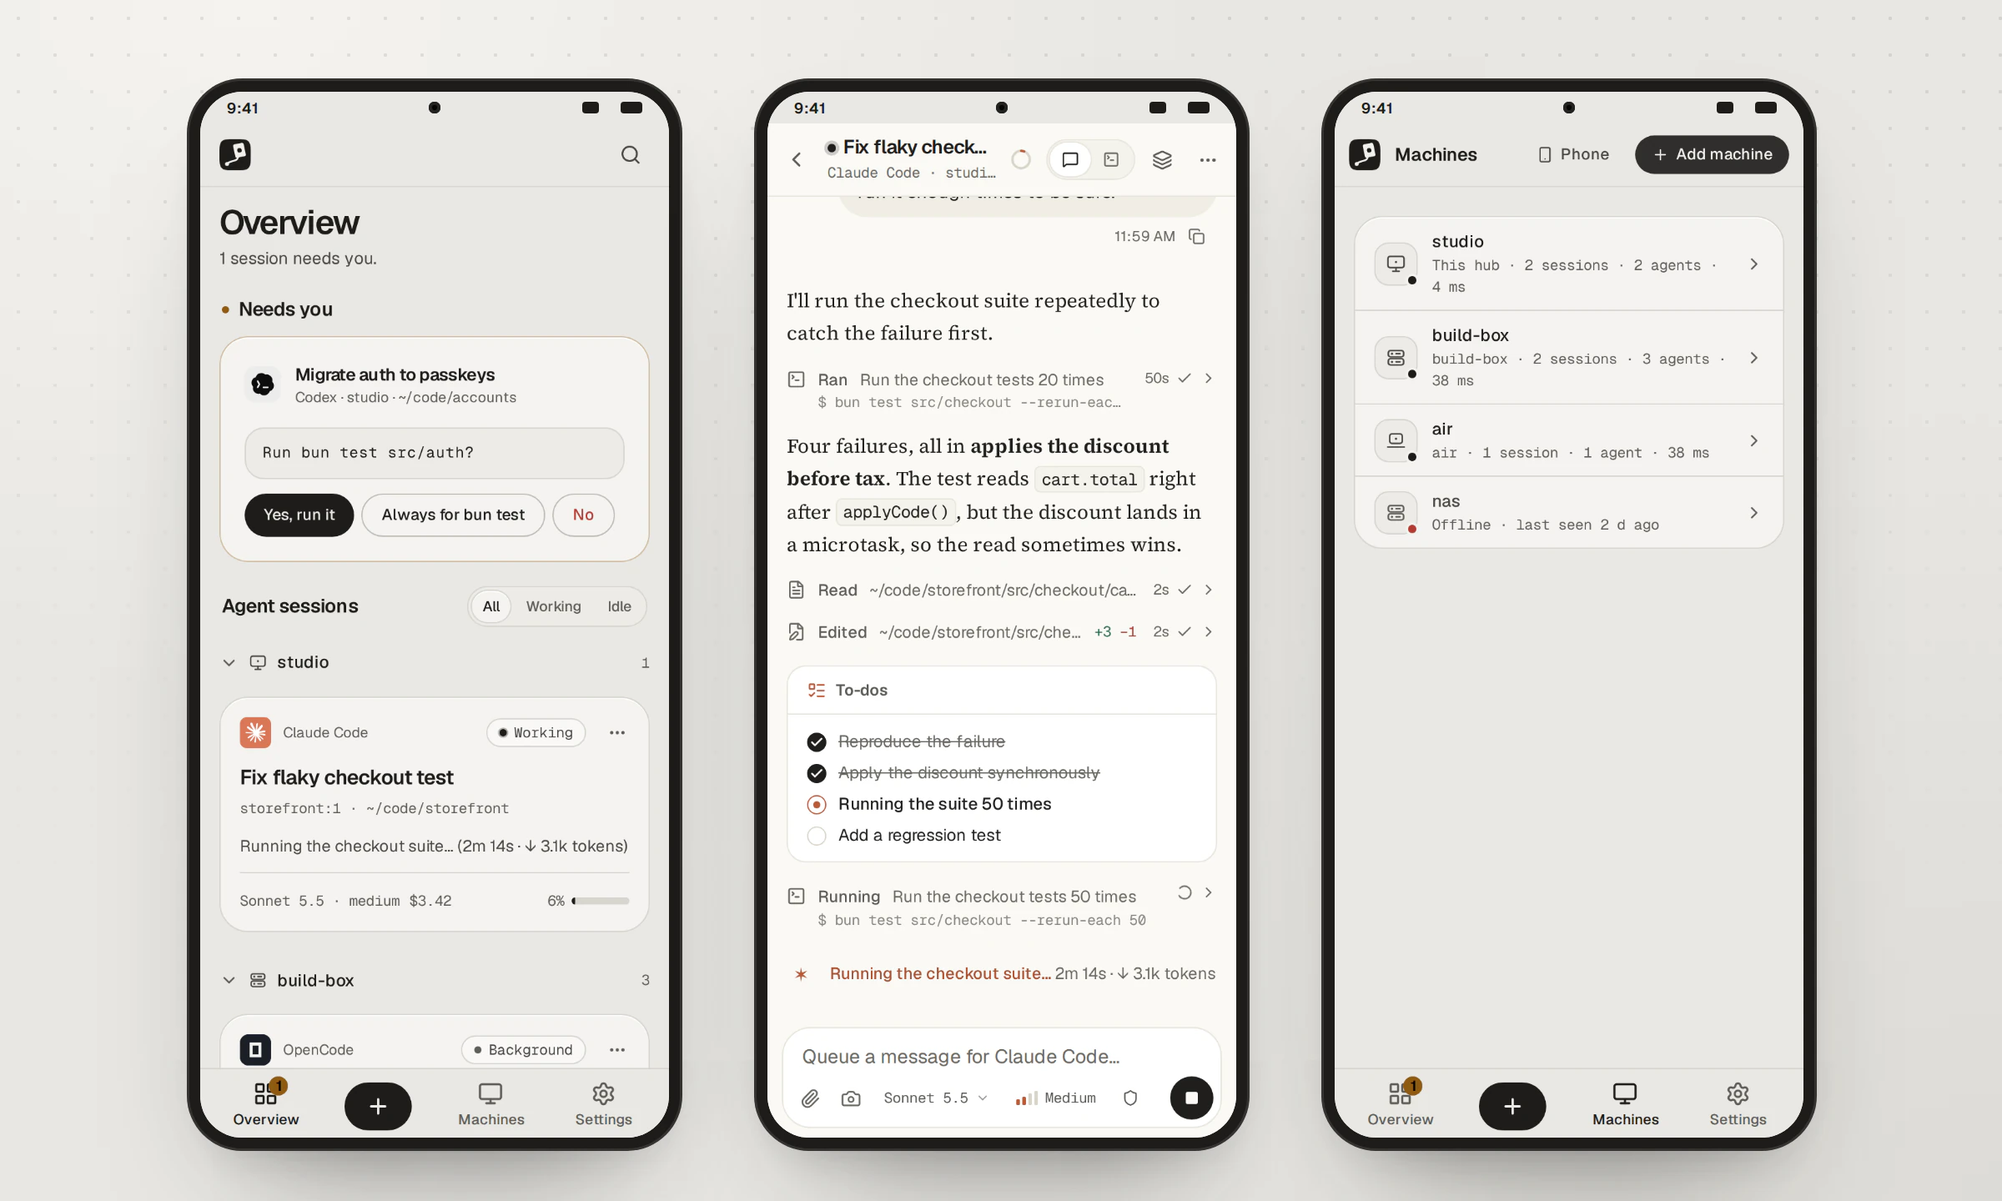
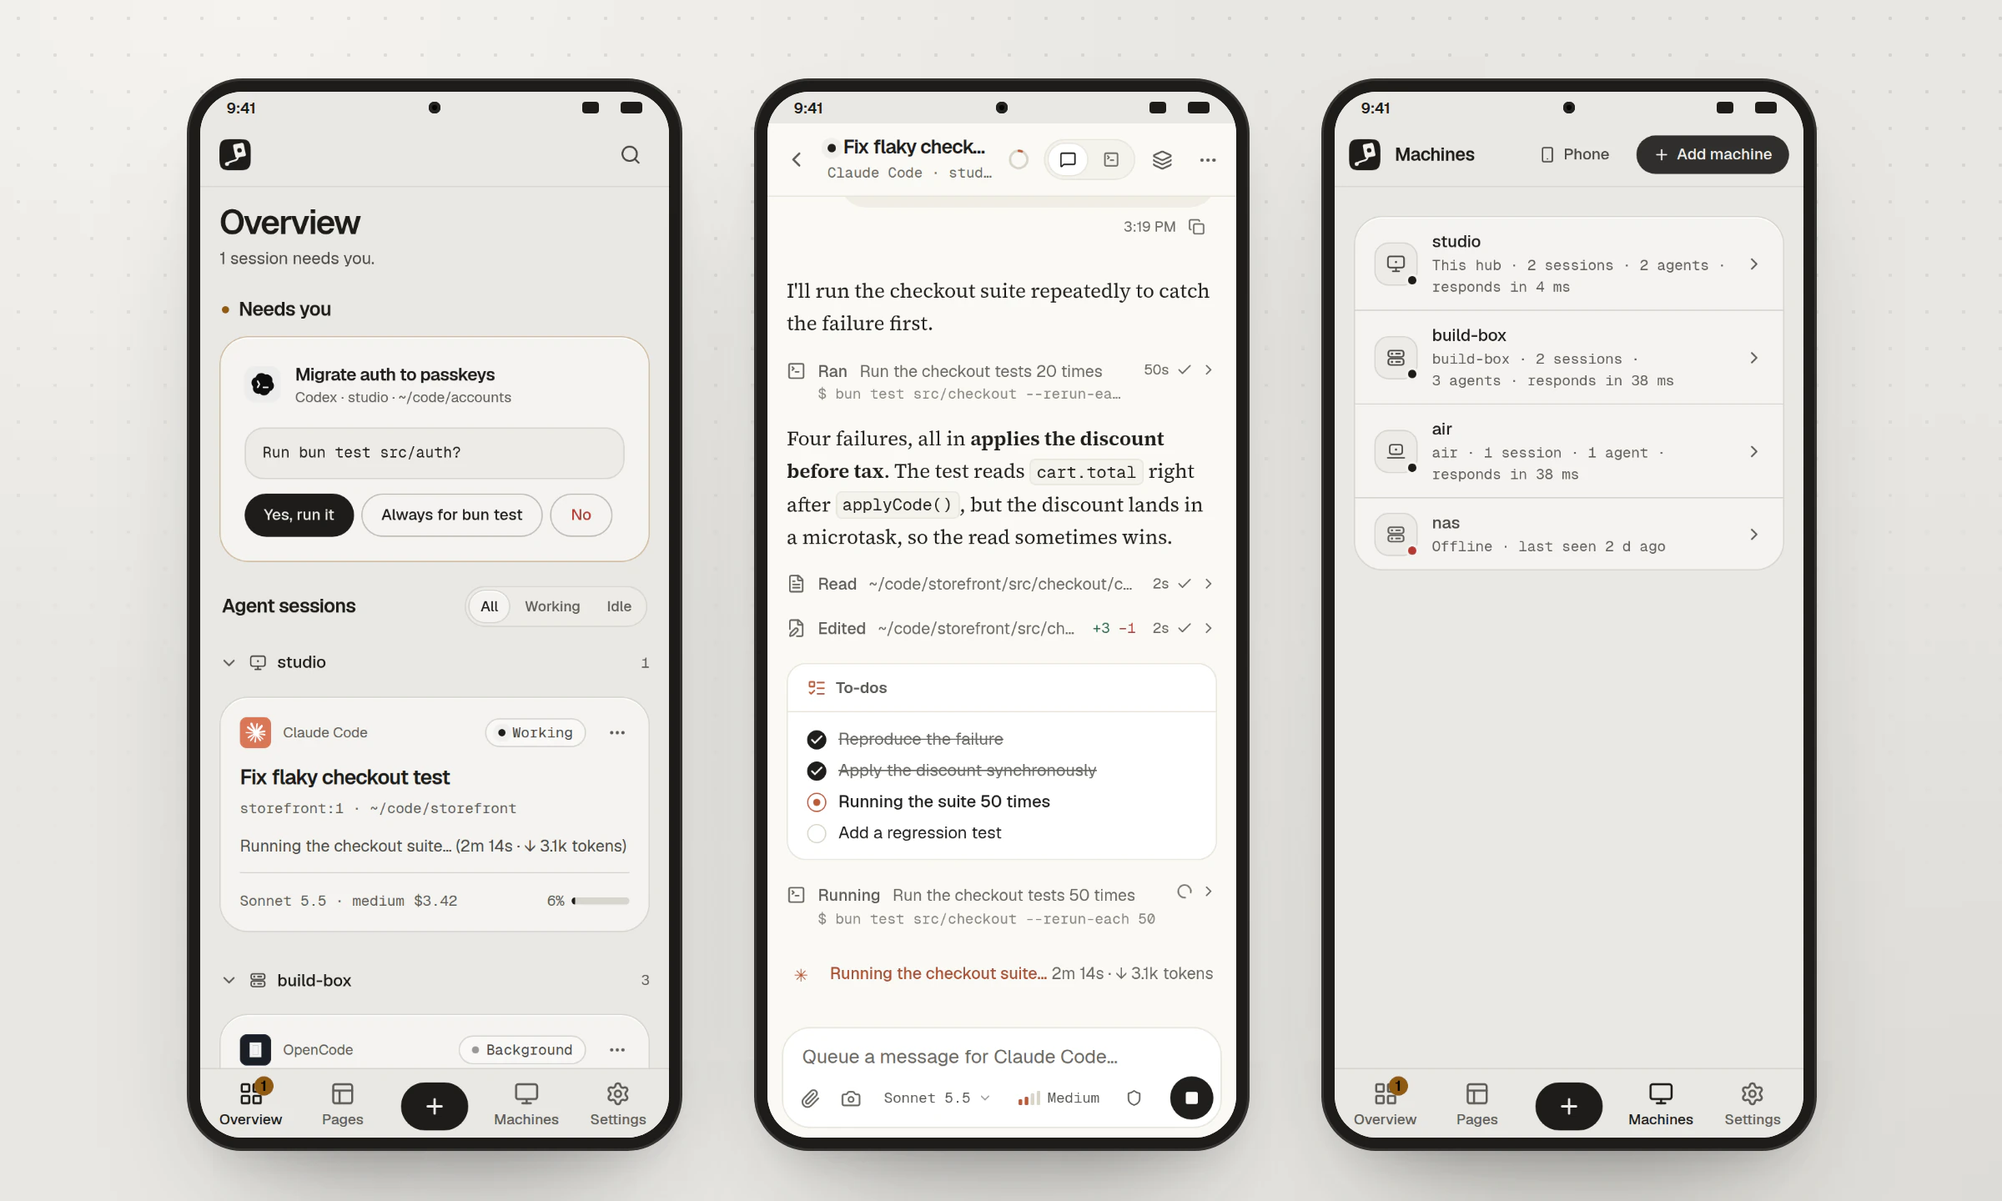
Bring the docs, README and site in line with what 0.20 does
A pass over every place that describes Inyon, checked against the code:

- Download sizes: about 4 MB on Windows, 10 to 13 MB elsewhere now that
  the Rust hub ships inside the binary.
- SECURITY.md covers signed downloads, the 0.20 plain-http rule and cert
  pin, companions, Pages and how to revoke a phone.
- CONTRIBUTING lists the Rust tests, conformance and the site build, and
  where the crates live.
- Docs pages: retry timings, the pkarr backoff, .internal names, typing
  through the paste buffer, INYON_DEBUG, the Android version.
- Old release notes rendered on the site rewrite the old domain to
  inyon.tech.
- The uploads Clean button uses the hub's own retention days instead of
  a fixed 7, and both hubs report it.
- Screenshots redrawn (the phones picture shows the Pages tab), link
  previews regenerated.

diff --git a/site/build.test.ts b/site/build.test.ts
@@ -3,7 +3,7 @@ import { createHash } from "node:crypto";
 import { readFileSync } from "node:fs";
 import { join } from "node:path";
 import { stampInstaller } from "../apps/node/installers.ts";
-import { checkReleaseFile, mb, parseSums } from "./build.ts";
+import { checkReleaseFile, mb, oldSiteLinks, parseSums } from "./build.ts";
 
 // /download said the APK was 2.7 MB while Chrome said 2.88 MB: sizes are decimal, as browsers count
 test("sizes read as a browser shows them", () => {
@@ -57,4 +57,14 @@ test("the installers served at the root carry the sha256 of the list the site ch
   expect(() => stampInstaller("get.sh", sh, list)).toThrow("expected one empty LIST_SHA256 line, found 0");
   expect(() => stampInstaller("get.sh", "LIST_SHA256=\nLIST_SHA256=\n", list)).toThrow("found 2");
   expect(() => stampInstaller("get.ps1", node("get.ps1"), "not a sha")).toThrow("isn't a sha256");
+});
+
+// release notes from before 23 Oct 2026 link to inyon.abhashchakraborty.tech; the changelog shows inyon.tech
+test("old release notes link to the site's new address", () => {
+  expect(oldSiteLinks("see [Install](https://inyon.abhashchakraborty.tech/docs/install/#x) or https://inyon.abhashchakraborty.tech")).toBe(
+    "see [Install](https://inyon.tech/docs/install/#x) or https://inyon.tech",
+  );
+  expect(oldSiteLinks("`curl -fsSL https://inyon.abhashchakraborty.tech/get.sh | sh`")).toBe("`curl -fsSL https://inyon.tech/get.sh | sh`");
+  // a host that only starts the same stays as it is
+  expect(oldSiteLinks("https://inyon.abhashchakraborty.tech.example.com/")).toBe("https://inyon.abhashchakraborty.tech.example.com/");
 });

diff --git a/site/build.ts b/site/build.ts
@@ -65,7 +65,7 @@ interface Release {
 const HOME = {
   title: "Inyon: your coding agents, from your phone",
   description:
-    "Watch, answer and steer Claude Code, Codex, Gemini CLI, OpenCode and GitHub Copilot running in tmux on your own computers, from your phone or any browser.",
+    "Watch, answer and steer Claude Code, Codex, Gemini CLI, OpenCode, GitHub Copilot and Antigravity CLI running in tmux on your own computers, from your phone or any browser.",
 };
 const DOWNLOAD_DESCRIPTION =
   "Download Inyon for Android, Linux, macOS and Windows. Every file is checked against the release's SHA256SUMS.";
@@ -460,9 +460,12 @@ async function releases(): Promise<GhRelease[]> {
 }
 
 /** A release's notes as HTML, headings demoted to sit under its version. */
+/** Links in notes written before the move to inyon.tech point here directly instead of through the old address's redirect. */
+export const oldSiteLinks = (md: string) => md.replace(/https?:\/\/inyon\.abhashchakraborty\.tech(?=[/)\s"'>]|$)/g, ORIGIN);
+
 function notes(r: GhRelease): string {
   // GitHub's "Full Changelog" line is a bare URL; each release links to its page instead
-  const md = (r.body || "").replace(/^#+\s.*\n/, "").replace(/^\*\*Full Changelog\*\*:.*$/m, "");
+  const md = oldSiteLinks(r.body || "").replace(/^#+\s.*\n/, "").replace(/^\*\*Full Changelog\*\*:.*$/m, "");
   // without their ids the headings' # links would point nowhere, so they go too
   return render(md)
     .html.replace(/<h[23] id="[^"]*"><a class="anchor"[^>]*>#<\/a>/g, "<h4>")

diff --git a/apps/web/src/pages/Machines.tsx b/apps/web/src/pages/Machines.tsx
@@ -436,6 +436,9 @@ function ConfigTab({ host }: { host: HostState }) {
   )
 }
 
+/** The age the clean button cleans: the hub's retention setting, which its count of expired files uses; 7 days when the hub doesn't say or keeps uploads forever. */
+export const cleanDays = (u: UploadUsage) => (u.days && u.days > 0 ? u.days : 7)
+
 export function UploadsCard({ host, compact }: { host: HostState; compact?: boolean }) {
   const [usage, setUsage] = useState<UploadUsage | null>(null)
   const [busy, setBusy] = useState<string | null>(null)
@@ -465,7 +468,7 @@ export function UploadsCard({ host, compact }: { host: HostState; compact?: bool
         <>
           <div className="mt-1 truncate font-mono text-[12px] text-fg-3">{usage.dir.replace(/^\/home\/[^/]+/, '~')}</div>
           <div className="mt-3 flex flex-wrap gap-2">
-            <Button size="sm" onClick={() => clean(7)} loading={busy === '7'} disabled={!usage.files}>Clean older than 7 days{usage.expired ? ` (${usage.expired})` : ''}</Button>
+            <Button size="sm" onClick={() => clean(cleanDays(usage))} loading={busy === String(cleanDays(usage))} disabled={!usage.files}>Clean older than {cleanDays(usage)} day{cleanDays(usage) === 1 ? '' : 's'}{usage.expired && usage.days ? ` (${usage.expired})` : ''}</Button>
             <Button size="sm" variant="danger" onClick={() => clean(0)} loading={busy === '0'} disabled={!usage.files}>Delete all</Button>
           </div>
         </>

diff --git a/site/pages/home.html b/site/pages/home.html
@@ -120,6 +120,7 @@
       <li><b>Follow background work</b><span>Queued messages, subagents and background shells with live output and a real Stop.</span></li>
       <li><b>Get notified</b><span>When an agent needs you or finishes, and when a machine drops off or comes back.</span></li>
       <li><b>Open what agents build</b><span>Plans, mockups and progress boards your agents make show up under Pages, sandboxed, on your phone and desktop.</span></li>
+      <li><b>Pair a companion app</b><span>Apps like Legato see your sessions, answer a question and send an instruction, with four permissions and nothing more.</span></li>
       <li><b>Set up machines from the app</b><span>It checks for tmux and each agent, installs what's missing and opens sign-in.</span></li>
     </ul>
     <div class="agents" aria-label="Supported agents">

diff --git a/apps/hub/src/features/features.ts b/apps/hub/src/features/features.ts
@@ -114,7 +114,8 @@ export async function uploadUsage(hostId: string) {
   const old = days > 0 ? `$(find ${shq(dir)} -type f -mtime +${days} | wc -l)` : '0'
   const r = await host.exec(`[ -d ${shq(dir)} ] || { echo "0 0 0"; exit 0; }; echo "$(du -sk ${shq(dir)} | cut -f1) $(find ${shq(dir)} -type f | wc -l) ${old}"`)
   const [kb, files, expired] = r.stdout.trim().split(/\s+/).map(Number)
-  return { bytes: (kb || 0) * 1024, files: files || 0, expired: expired || 0, dir }
+  // days: the retention setting `expired` counts with, so the app's clean button cleans the same files
+  return { bytes: (kb || 0) * 1024, files: files || 0, expired: expired || 0, dir, days }
 }
 
 /**

diff --git a/apps/web/src/pages/UploadsClean.test.ts b/apps/web/src/pages/UploadsClean.test.ts
@@ -1,0 +1,14 @@
+import { expect, test } from 'bun:test'
+import { cleanDays } from './Machines.tsx'
+
+const usage = { bytes: 0, files: 4, expired: 2, dir: '/home/me/.inyon/uploads' }
+
+test('the clean button cleans the age the hub counted expired files with', () => {
+  expect(cleanDays({ ...usage, days: 1 })).toBe(1)
+  expect(cleanDays({ ...usage, days: 30 })).toBe(30)
+})
+
+test('a hub that keeps uploads forever, or predates the field, gets the old 7 days', () => {
+  expect(cleanDays({ ...usage, days: 0 })).toBe(7)
+  expect(cleanDays(usage)).toBe(7)
+})

diff --git a/apps/web/src/lib/api.ts b/apps/web/src/lib/api.ts
@@ -96,6 +96,8 @@ export interface UploadUsage {
   files: number
   expired: number
   dir: string
+  /** the retention setting `expired` counts with (from 0.20.2; older hubs leave it out) */
+  days?: number
 }
 
 export interface ConfigFile {

diff --git a/crates/inyon-core/src/features/features.rs b/crates/inyon-core/src/features/features.rs
@@ -204,6 +204,8 @@ pub struct UploadUsage {
     pub files: Num,
     pub expired: Num,
     pub dir: String,
+    /// The retention setting `expired` counts with, so the app's clean button cleans the same files
+    pub days: Num,
 }
 
 /// `Number(x) || 0`
@@ -224,7 +226,7 @@ pub async fn upload_usage(host_id: &str) -> HubResult<UploadUsage> {
     let r = host.run(&format!("[ -d {d} ] || {{ echo \"0 0 0\"; exit 0; }}; echo \"$(du -sk {d} | cut -f1) $(find {d} -type f | wc -l) {old}\"")).await?;
     let nums: Vec<f64> = re!(r"\s+").split(r.stdout.jtrim()).map(to_number).collect();
     let at = |i: usize| or_zero(nums.get(i).copied().unwrap_or(f64::NAN));
-    Ok(UploadUsage { bytes: Num(at(0) * 1024.0), files: Num(at(1)), expired: Num(at(2)), dir })
+    Ok(UploadUsage { bytes: Num(at(0) * 1024.0), files: Num(at(1)), expired: Num(at(2)), dir, days: Num(days) })
 }
 
 /// The shell that tidies a machine's uploads: files older than `days` (none when 0, all when -1),

diff --git a/crates/inyon-core/src/features/features_tests.rs b/crates/inyon-core/src/features/features_tests.rs
@@ -470,7 +470,7 @@ fn upload_usage_reads_sizes_counts_and_expired_files() {
         connected("u", "/home/me", json!([]));
         let f = crate::test_support::fake::Fake::install(|_, _, _| crate::test_support::fake::ok("12 3 1\n"));
         let u = upload_usage("u").await.unwrap();
-        assert_eq!(serde_json::to_value(&u).unwrap(), json!({ "bytes": 12288, "files": 3, "expired": 1, "dir": "/home/me/.inyon/uploads" }));
+        assert_eq!(serde_json::to_value(&u).unwrap(), json!({ "bytes": 12288, "files": 3, "expired": 1, "dir": "/home/me/.inyon/uploads", "days": 7 }));
         assert_eq!(
             f.cmds(),
             ["[ -d '/home/me/.inyon/uploads' ] || { echo \"0 0 0\"; exit 0; }; echo \"$(du -sk '/home/me/.inyon/uploads' | cut -f1) $(find '/home/me/.inyon/uploads' -type f | wc -l) $(find '/home/me/.inyon/uploads' -type f -mtime +7 | wc -l)\""]

diff --git a/SECURITY.md b/SECURITY.md
@@ -1,13 +1,16 @@
 # Security
 
 Inyon gives whoever signs in to the hub a shell on every connected machine, as the user the
-agents run as. Treat the hub like an SSH jump host.
+agents run as. Treat the hub like an SSH jump host. The full account of how each connection is
+protected is in [Security](https://inyon.tech/docs/security/) on the website; this page is the
+summary.
 
 ## How it is meant to be deployed
 
 - **Keep the hub private.** It binds to `127.0.0.1` by default. Reach it over a private network
-  (Tailscale, NetBird, WireGuard, your LAN) or put it behind HTTPS with a reverse proxy. Don't
-  expose plain HTTP to the internet.
+  (Tailscale, NetBird, ZeroTier, WireGuard) or your LAN, where from 0.20 setup gives it HTTPS on a
+  certificate of its own, or put it behind HTTPS with a reverse proxy. Don't expose plain HTTP to
+  the internet.
 - **One strong password.** The first visit creates it, with the setup code the hub prints. The hub
   stores only a scrypt hash. Sign-in attempts are rate limited per address and in total. Sessions
   are signed, HttpOnly cookies, and the API only accepts changes from the hub's own origin.
@@ -17,8 +20,17 @@ agents run as. Treat the hub like an SSH jump host.
 - **Laptops connect out, not in.** Machines running `inyon` open an outbound connection
   to the hub. Nothing on them listens for connections, so you never open SSH on a laptop. Each
   machine gets its own random token, the hub stores only its SHA-256, and removing the machine
-  revokes it. A token no machine has used stops working after a day. `inyon` refuses to send its token over plain HTTP unless the hub is on a
-  private address.
+  revokes it. A token no machine has used stops working after a day. `inyon` refuses to send its token over plain HTTP unless the hub is on
+  the same machine or on a Tailscale or NetBird address (from 0.20). A hub on a certificate it made
+  itself is pinned by the SHA-256 in its **Add a machine** command.
+- **Downloads are signed.** Releases, the one-line installers and the machine updates a hub hands
+  out are checked against Inyon's signed release list for the version asked for, and an older
+  signed list is refused.
+- **Typed text stays off command lines.** Messages, drafts and pasted API keys reach tmux through
+  a private file, so other users on the machine can't read them in the process list.
+- **Companion apps and Pages get less than you do.** A companion app such as Legato pairs with a
+  one-time code and sees only its four permissions; removing it cuts it off at once. A page an agent
+  made runs sandboxed under a link that lasts 12 hours and can't see your sign-in or call the hub.
 - **Servers can use SSH.** The hub uses your existing `ssh` config, keys and known hosts. It never
   stores SSH keys.
 
@@ -39,7 +51,7 @@ with a terminal app that has your keys.
 A paired phone gets a shell on the laptop as the user running `inyon`, the same as SSH.
 
 - **The pairing code is the secret.** It holds a one-time code that works for 10 minutes and for
-  one phone. Don't share a screenshot of it. Pairing again or `inyon forget` revokes a phone.
+  one phone. Don't share a screenshot of it. `inyon forget` revokes a phone.
 - **End-to-end encrypted.** Phone and laptop run Noise IK (X25519, ChaCha20-Poly1305, SHA-256).
   The phone already knows the laptop's key from the code, so a tunnel, relay or network in between
   can't read or change the traffic, or stand in for the laptop. The laptop only lets in phone keys

diff --git a/site/docs/install.md b/site/docs/install.md
@@ -3,7 +3,7 @@ title: Install
 description: How to install Inyon with the one-line installers or npm, where it lives on a computer, and how to update or remove it.
 ---
 
-Every computer that runs agents for you gets one program, `inyon` (about 3.5 MB, written in Rust). It sets things up, shows status, keeps everything updated, and from 0.19 does the work behind it too: the link to your phone and the connection to a hub. Only a [hub](hub.md) also gets `inyon-engine`, the larger program built with Bun that the hub runs on. Before 0.19 every computer had both. You only ever type `inyon`.
+Every computer that runs agents for you gets one program, `inyon` (written in Rust; about 4 MB on Windows, 10 to 13 MB on Linux and macOS, where from 0.20 it also holds the Rust hub). It sets things up, shows status, keeps everything updated, and from 0.19 does the work behind it too: the link to your phone and the connection to a hub. Only a [hub](hub.md) also gets `inyon-engine`, the larger program built with Bun that the hub runs on. Before 0.19 every computer had both. You only ever type `inyon`.
 
 ## The one-line installers
 
@@ -188,7 +188,7 @@ From 0.20.1 the window is the control panel for this computer:
 
 On a computer that runs the hub, the pairing card shows the hub's address and how many machines joined, with **Open the hub** and **Copy address**.
 
-The window has one size for each display scale. It opens in the middle of the screen whose tray you clicked, inside the area the taskbar leaves free. Nothing it shows changes its size: a refresh, a pairing code or a new phone only changes what's inside. It takes a new size only when the scale changes or you move it to a screen with another scale. A screen too small for it gets a narrower layout with three tabs, Pair, Phones and This computer. It follows the Windows app theme, light or dark, title bar included. Tab moves between the buttons and Esc closes it. In 0.19 the window grew and shrank with every refresh.
+The window has one size for each display scale. It opens in the middle of the screen whose tray you clicked, inside the area the taskbar leaves free. Nothing it shows changes its size: a refresh, a pairing code or a new phone only changes what's inside. It takes a new size only when the scale changes or you move it to a screen with another scale. A screen too small for it gets a narrower layout with three tabs, Pair, Phones and This computer. It follows the Windows app theme, light or dark, title bar included. Tab moves between the buttons and Esc closes it. Before 0.20.1 the window grew and shrank with every refresh.
 
 From 0.17.2 setup also lists Inyon under **Settings → Apps → Installed apps**, with its version, and `inyon update` keeps the version current. **Uninstall** there runs `inyon uninstall --purge` in a window of its own, which stays open until you press Enter.
 

diff --git a/CONTRIBUTING.md b/CONTRIBUTING.md
@@ -37,6 +37,9 @@ cd apps/web && bun test
 cd apps/node && bun test
 cd packages/link && bun test
 cd apps/web && bun run build && bun run e2e   # layout at phone widths, needs Playwright's Chromium
+cargo test --workspace            # the inyon command and the Rust crates (or bun run cli:test)
+bun conformance/run.ts            # both hubs against the recorded scenarios
+bun site/build.ts --offline       # the website and docs; fails on a broken link
 ```
 
 The screen parser (`apps/hub/src/claude/screen.ts`) is tested against real captures from the
@@ -52,12 +55,20 @@ logs its size after each one to `window.log`, the only file it writes.
 ## Where things live
 
 ```
-apps/hub           Bun server: machines, tmux, agent readers, API, WebSocket
+apps/cli           the inyon command (Rust): setup, status, pairing, services, updates, the Windows window
+apps/hub           the Bun hub: machines, tmux, agent readers, API, WebSocket
                    (src/phone runs the same core inside the Android app)
+apps/node          inyon-engine, the Bun program a hub runs on (and INYON_LEGACY_ENGINE=1)
 apps/web           React + Vite app, also served by the hub
-apps/node          the inyon program: the phone link, the hub connection and the hub itself
-apps/mobile        Capacitor shell for Android and iOS; scripts/icons.ts renders every icon
+apps/mobile        Capacitor shell for Android (and an unshipped iOS project); scripts/icons.ts renders every icon
+crates/            the Rust side: inyon-core (readers, machines), inyon-hub (the opt-in Rust hub),
+                   inyon-engine and inyon-link (the phone link), inyon-backends, inyon-protocol
 packages/protocol  types and the agent registry shared by hub and app
+packages/link      the phone link in TypeScript (Noise, pkarr, relay)
+conformance/       recorded scenarios both hubs must answer the same way
+site/              the website and docs at inyon.tech
+npm/               the npm launcher and per-platform packages
+skills/            agent skills shipped with each release (Blueprint)
 ```
 
 The pictures in the README are the real app fed a made-up set of machines: `bun run build` in
@@ -68,7 +79,8 @@ The pictures in the README are the real app fed a made-up set of machines: `bun 
 Most of what Inyon knows about an agent lives in one place: `packages/protocol/src/agents.ts`
 (how to detect it, its colours, commands, models and config files). A chat view also needs a
 reader that turns the agent's session files or API into chat items; see `apps/hub/src/agents/`
-for Codex, Gemini CLI and OpenCode.
+and its Rust twin `crates/inyon-core/src/agents/` for Codex, Gemini CLI, OpenCode, Copilot and
+Antigravity. Both hubs need the reader.
 
 ## Look and feel
 
